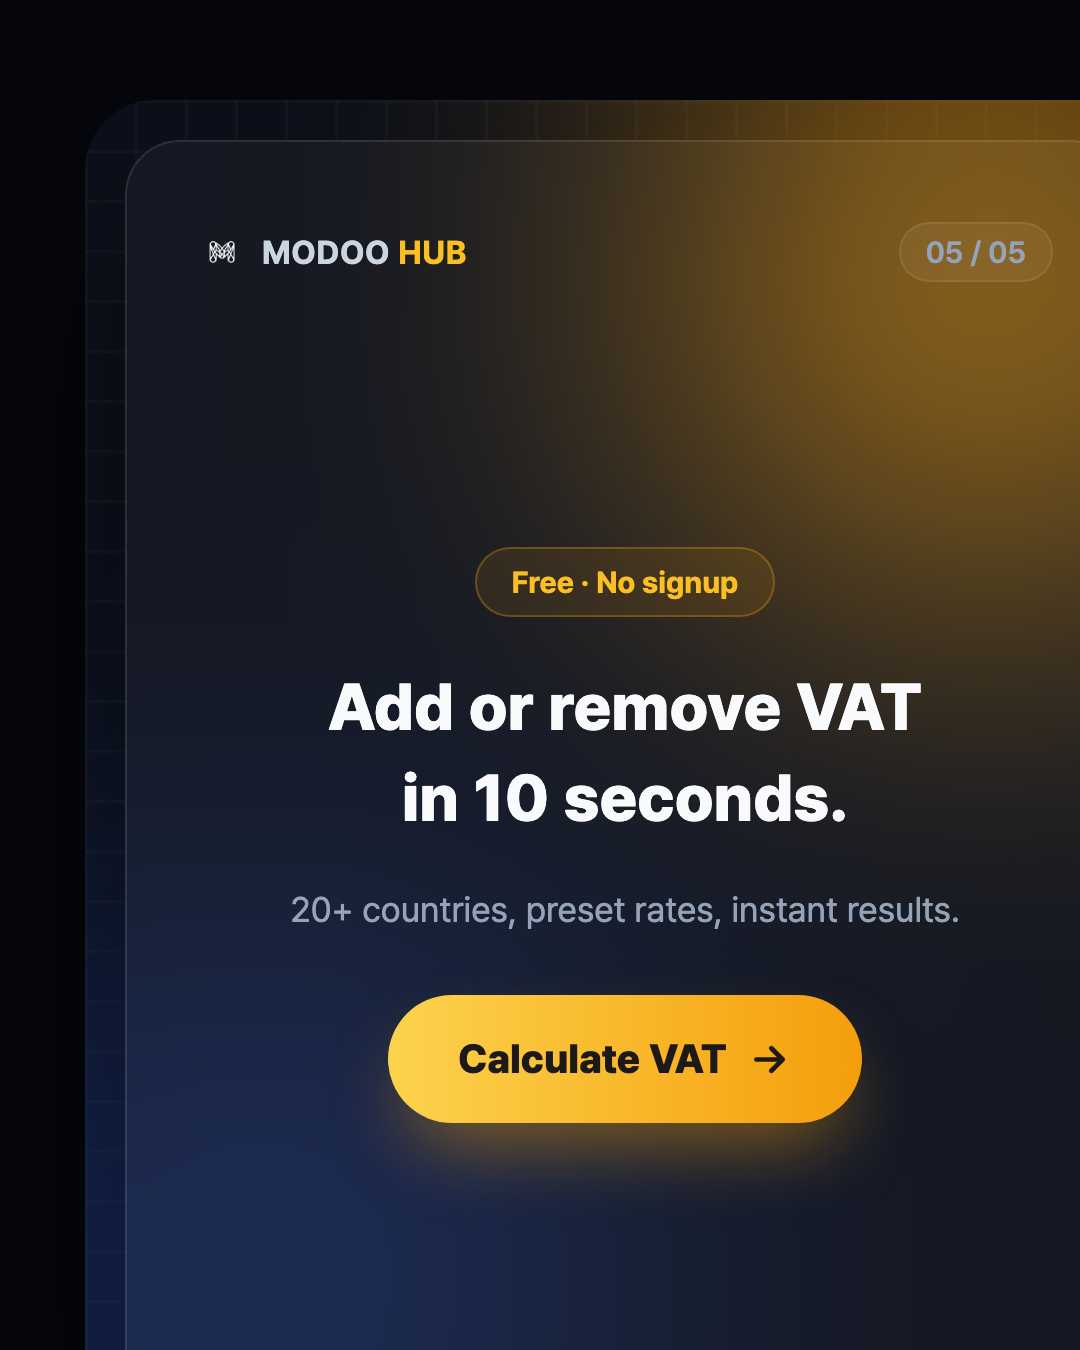
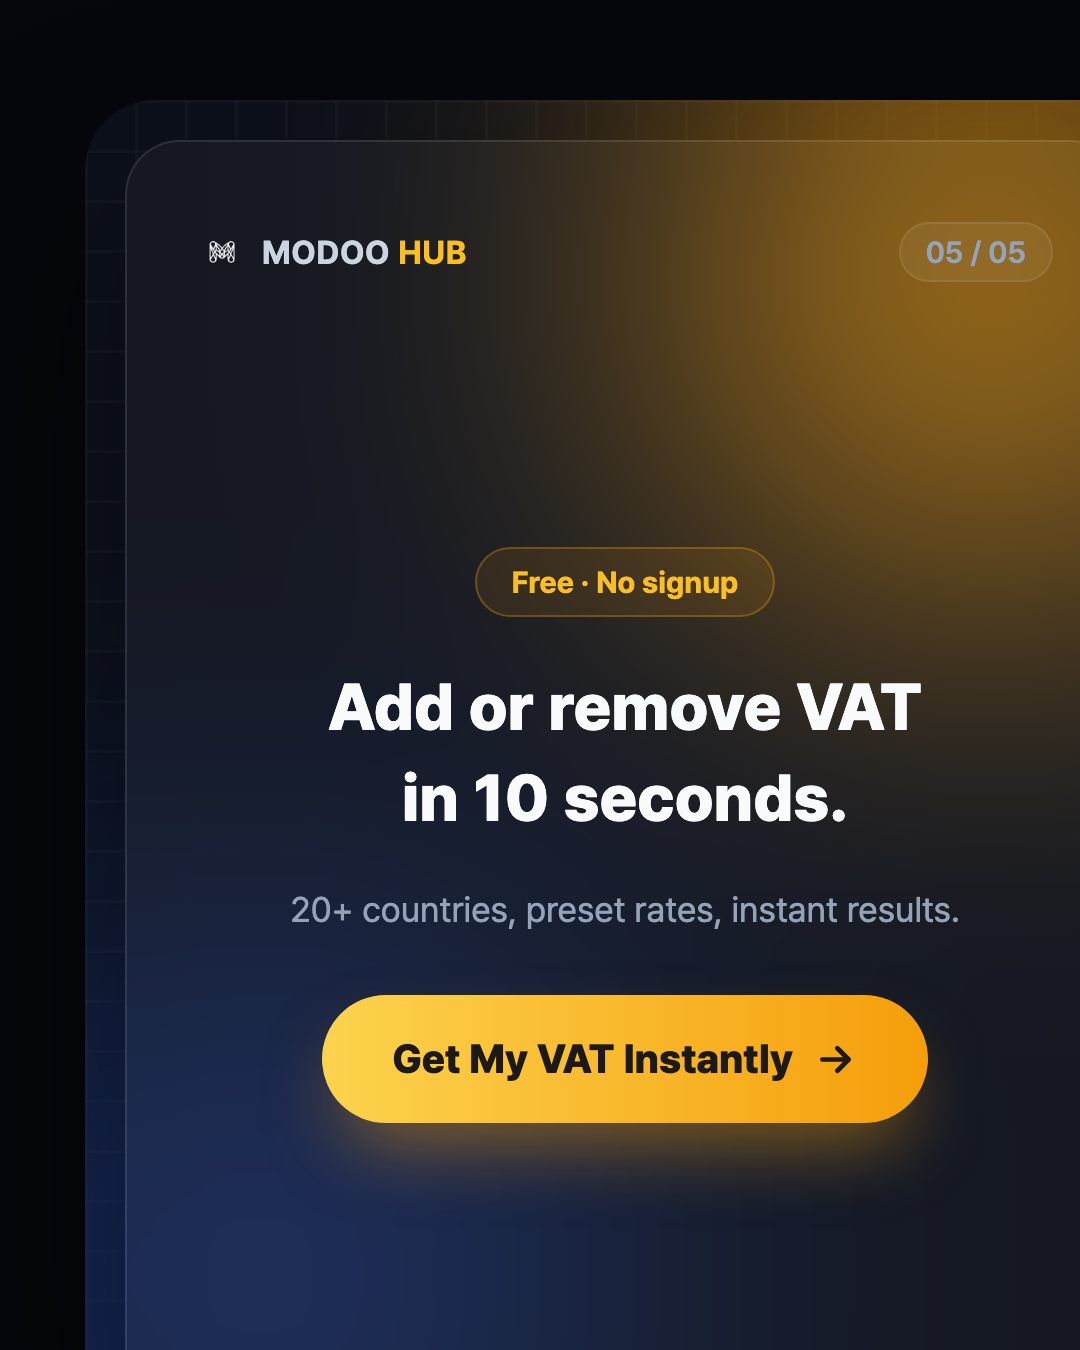
Rewrite batch-2 CTA buttons to result-oriented copy, regenerate slide5
Generic "OOO 계산하기 / Calculate OOO" buttons replaced with
benefit/result-framed copy per Gemini's CTR suggestion (confirmed by
user, applied to batch 2 only — batch 1 stays as-is since it's
already live and changing it would create a voice mismatch with
posted content):

KR: 내 양도세 1초 확인하기 / 내 4대보험료 1초 확인하기 /
    내 육아휴직급여 1초 확인하기 / 내 국민연금 1초 비교하기 /
    내 칼로리 3초 확인하기
Global: See My Real Value Now / Get My VAT Instantly /
    See My Savings Now / Convert My Time Now / Find My Bedtime Now

All 10 slide5 images regenerated and visually confirmed no text
overflow/wrap. Alt-text entries in 08-sns-cards.md updated to match.

Changed region(s): [[0.275, 0.7156, 0.7333, 0.8711], [0.7639, 0.7156, 0.8556, 0.8711]]

diff --git a/promotion/template/kr-calorie.html b/promotion/template/kr-calorie.html
@@ -109,7 +109,7 @@
           <h1 style="font-size:26px; font-weight:800; color:#0f172a; line-height:1.4; margin:0;">내 하루 필요 칼로리,<br/>3초 만에 계산하기</h1>
           <p style="font-size:14px; color:#64748b; margin:0;">나이·체중·활동량만 입력하면 바로 결과 확인</p>
           <div style="margin-top:8px; display:flex; align-items:center; gap:8px; background:linear-gradient(90deg,#fcd34d,#f59e0b); color:#1c1917; font-weight:800; font-size:16px; padding:16px 28px; border-radius:9999px; box-shadow:0 15px 30px -8px rgba(245,158,11,0.35);">
-            칼로리 계산하기
+            내 칼로리 3초 확인하기
             <svg width="18" height="18" viewBox="0 0 24 24" fill="none"><path d="M5 12h14M13 6l6 6-6 6" stroke="#1c1917" stroke-width="2.5" stroke-linecap="round" stroke-linejoin="round"/></svg>
           </div>
         </div>

diff --git a/promotion/template/kr-parental-leave.html b/promotion/template/kr-parental-leave.html
@@ -104,7 +104,7 @@
           <h1 style="font-size:26px; font-weight:800; color:#f1f5f9; line-height:1.4; margin:0;">내 육아휴직급여,<br/>1초 만에 계산하기</h1>
           <p style="font-size:14px; color:#e2e8f0; margin:0;">통상임금과 휴직 기간만 입력하면 끝</p>
           <div style="margin-top:8px; display:flex; align-items:center; gap:8px; background:linear-gradient(90deg,#fb7185,#f59e0b); color:#1c1917; font-weight:800; font-size:16px; padding:16px 28px; border-radius:9999px; box-shadow:0 15px 30px -8px rgba(244,63,94,0.5);">
-            육아휴직급여 계산하기
+            내 육아휴직급여 1초 확인하기
             <svg width="18" height="18" viewBox="0 0 24 24" fill="none"><path d="M5 12h14M13 6l6 6-6 6" stroke="#1c1917" stroke-width="2.5" stroke-linecap="round" stroke-linejoin="round"/></svg>
           </div>
         </div>

diff --git a/promotion/template/kr-national-pension.html b/promotion/template/kr-national-pension.html
@@ -98,7 +98,7 @@
           <h1 style="font-size:26px; font-weight:800; color:#f8fafc; line-height:1.4; margin:0;">내 국민연금 보험료,<br/>1초 만에 비교하기</h1>
           <p style="font-size:14px; color:#94a3b8; margin:0;">소득과 가입 유형만 입력하면 끝</p>
           <div style="margin-top:8px; display:flex; align-items:center; gap:8px; background:linear-gradient(90deg,#60a5fa,#fbbf24); color:#1c1917; font-weight:800; font-size:16px; padding:16px 28px; border-radius:9999px; box-shadow:0 15px 30px -8px rgba(245,158,11,0.5);">
-            국민연금 계산하기
+            내 국민연금 1초 비교하기
             <svg width="18" height="18" viewBox="0 0 24 24" fill="none"><path d="M5 12h14M13 6l6 6-6 6" stroke="#1c1917" stroke-width="2.5" stroke-linecap="round" stroke-linejoin="round"/></svg>
           </div>
         </div>

diff --git a/promotion/template/kr-four-insurance.html b/promotion/template/kr-four-insurance.html
@@ -109,7 +109,7 @@
           <h1 style="font-size:26px; font-weight:800; color:#f8fafc; line-height:1.4; margin:0;">내 4대보험료,<br/>1초 만에 계산하기</h1>
           <p style="font-size:14px; color:#94a3b8; margin:0;">월급만 입력하면 항목별로 바로 확인</p>
           <div style="margin-top:8px; display:flex; align-items:center; gap:8px; background:linear-gradient(90deg,#fcd34d,#f59e0b); color:#1c1917; font-weight:800; font-size:16px; padding:16px 28px; border-radius:9999px; box-shadow:0 15px 30px -8px rgba(245,158,11,0.5);">
-            4대보험 계산하기
+            내 4대보험료 1초 확인하기
             <svg width="18" height="18" viewBox="0 0 24 24" fill="none"><path d="M5 12h14M13 6l6 6-6 6" stroke="#1c1917" stroke-width="2.5" stroke-linecap="round" stroke-linejoin="round"/></svg>
           </div>
         </div>

diff --git a/promotion/template/kr-capital-gains-tax.html b/promotion/template/kr-capital-gains-tax.html
@@ -104,7 +104,7 @@
           <h1 style="font-size:26px; font-weight:800; color:#f8fafc; line-height:1.4; margin:0;">내 양도소득세,<br/>1초 만에 계산하기</h1>
           <p style="font-size:14px; color:#94a3b8; margin:0;">보유기간과 양도차익만 입력하면 끝</p>
           <div style="margin-top:8px; display:flex; align-items:center; gap:8px; background:linear-gradient(90deg,#fcd34d,#f59e0b); color:#1c1917; font-weight:800; font-size:16px; padding:16px 28px; border-radius:9999px; box-shadow:0 15px 30px -8px rgba(245,158,11,0.5);">
-            양도세 계산하기
+            내 양도세 1초 확인하기
             <svg width="18" height="18" viewBox="0 0 24 24" fill="none"><path d="M5 12h14M13 6l6 6-6 6" stroke="#1c1917" stroke-width="2.5" stroke-linecap="round" stroke-linejoin="round"/></svg>
           </div>
         </div>

diff --git a/promotion/template/global-inflation-calculator.html b/promotion/template/global-inflation-calculator.html
@@ -108,7 +108,7 @@
           <h1 style="font-size:26px; font-weight:800; color:#f8fafc; line-height:1.4; margin:0;">See your real purchasing power<br/>in 10 seconds.</h1>
           <p style="font-size:14px; color:#94a3b8; margin:0;">Enter an amount, a rate, and a time period.</p>
           <div style="margin-top:8px; display:flex; align-items:center; gap:8px; background:linear-gradient(90deg,#fcd34d,#f59e0b); color:#1c1917; font-weight:800; font-size:16px; padding:16px 28px; border-radius:9999px; box-shadow:0 15px 30px -8px rgba(245,158,11,0.5);">
-            Calculate Inflation Impact
+            See My Real Value Now
             <svg width="18" height="18" viewBox="0 0 24 24" fill="none"><path d="M5 12h14M13 6l6 6-6 6" stroke="#1c1917" stroke-width="2.5" stroke-linecap="round" stroke-linejoin="round"/></svg>
           </div>
         </div>

diff --git a/promotion/template/global-sleep-calculator.html b/promotion/template/global-sleep-calculator.html
@@ -105,7 +105,7 @@
           <h1 style="font-size:26px; font-weight:800; color:#0f172a; line-height:1.4; margin:0;">Find your ideal bedtime<br/>in 3 seconds.</h1>
           <p style="font-size:14px; color:#64748b; margin:0;">Enter your wake-up time and get instant results.</p>
           <div style="margin-top:8px; display:flex; align-items:center; gap:8px; background:linear-gradient(90deg,#fcd34d,#f59e0b); color:#1c1917; font-weight:800; font-size:16px; padding:16px 28px; border-radius:9999px; box-shadow:0 15px 30px -8px rgba(245,158,11,0.35);">
-            Calculate My Sleep
+            Find My Bedtime Now
             <svg width="18" height="18" viewBox="0 0 24 24" fill="none"><path d="M5 12h14M13 6l6 6-6 6" stroke="#1c1917" stroke-width="2.5" stroke-linecap="round" stroke-linejoin="round"/></svg>
           </div>
         </div>

diff --git a/promotion/template/global-loan-payoff-calculator.html b/promotion/template/global-loan-payoff-calculator.html
@@ -93,7 +93,7 @@
           <h1 style="font-size:26px; font-weight:800; color:#f1f5f9; line-height:1.4; margin:0;">See your own savings<br/>in 10 seconds.</h1>
           <p style="font-size:14px; color:#e2e8f0; margin:0;">Balance, rate, and payment — that's all it takes.</p>
           <div style="margin-top:8px; display:flex; align-items:center; gap:8px; background:linear-gradient(90deg,#fb7185,#f59e0b); color:#1c1917; font-weight:800; font-size:16px; padding:16px 28px; border-radius:9999px; box-shadow:0 15px 30px -8px rgba(244,63,94,0.5);">
-            Calculate My Payoff
+            See My Savings Now
             <svg width="18" height="18" viewBox="0 0 24 24" fill="none"><path d="M5 12h14M13 6l6 6-6 6" stroke="#1c1917" stroke-width="2.5" stroke-linecap="round" stroke-linejoin="round"/></svg>
           </div>
         </div>

diff --git a/promotion/template/global-timezone-converter.html b/promotion/template/global-timezone-converter.html
@@ -102,7 +102,7 @@
           <h1 style="font-size:26px; font-weight:800; color:#f8fafc; line-height:1.4; margin:0;">Convert any time zone<br/>in seconds.</h1>
           <p style="font-size:14px; color:#94a3b8; margin:0;">DST handled automatically, 30+ cities at once.</p>
           <div style="margin-top:8px; display:flex; align-items:center; gap:8px; background:linear-gradient(90deg,#60a5fa,#fbbf24); color:#1c1917; font-weight:800; font-size:16px; padding:16px 28px; border-radius:9999px; box-shadow:0 15px 30px -8px rgba(245,158,11,0.5);">
-            Convert Time Zones
+            Convert My Time Now
             <svg width="18" height="18" viewBox="0 0 24 24" fill="none"><path d="M5 12h14M13 6l6 6-6 6" stroke="#1c1917" stroke-width="2.5" stroke-linecap="round" stroke-linejoin="round"/></svg>
           </div>
         </div>

diff --git a/promotion/template/global-vat-calculator.html b/promotion/template/global-vat-calculator.html
@@ -106,7 +106,7 @@
           <h1 style="font-size:26px; font-weight:800; color:#f8fafc; line-height:1.4; margin:0;">Add or remove VAT<br/>in 10 seconds.</h1>
           <p style="font-size:14px; color:#94a3b8; margin:0;">20+ countries, preset rates, instant results.</p>
           <div style="margin-top:8px; display:flex; align-items:center; gap:8px; background:linear-gradient(90deg,#fcd34d,#f59e0b); color:#1c1917; font-weight:800; font-size:16px; padding:16px 28px; border-radius:9999px; box-shadow:0 15px 30px -8px rgba(245,158,11,0.5);">
-            Calculate VAT
+            Get My VAT Instantly
             <svg width="18" height="18" viewBox="0 0 24 24" fill="none"><path d="M5 12h14M13 6l6 6-6 6" stroke="#1c1917" stroke-width="2.5" stroke-linecap="round" stroke-linejoin="round"/></svg>
           </div>
         </div>

diff --git a/promotion/08-sns-cards.md b/promotion/08-sns-cards.md
@@ -112,7 +112,7 @@ modoohub.com/capital-gains-tax.html
 2. 체크리스트: 나도 해당된다, 자가진단 체크리스트 — 1년 안에 팔 계획, 조정대상지역 다주택자, 1세대1주택 비과세 요건 모름.
 3. 경고 카드: 다주택자는 세금이 더블로. 조정대상지역 2주택 +20%p, 3주택 이상 +30%p 중과세율이 2026년 5월 10일부터 재적용.
 4. 표: 과세표준 구간별 양도세율 — 1,400만원 이하 6%, ~8,800만원 24%, 5억~10억원 42%, 10억원 초과 45%.
-5. 행동 유도 카드: 내 양도소득세, 1초 만에 계산하기. 가입 불필요, 30초 소요.
+5. 행동 유도 카드: 내 양도소득세, 1초 만에 계산하기. 가입 불필요, 30초 소요. 버튼: 내 양도세 1초 확인하기.
 
 **상태**: [ ] 게시 대기.
 
@@ -149,7 +149,7 @@ modoohub.com/four-insurance.html
 2. 명세서 카드: 월급 300만원 4대보험 명세서 — 국민연금 142,500원, 건강보험 107,850원, 장기요양보험 14,171원, 고용보험 27,000원, 합계 291,522원.
 3. 표: 2026년 보험료율 변화 — 국민연금 4.75%, 건강보험 3.595%, 장기요양보험 건보료의 13.14%, 고용보험 0.9%.
 4. 체크리스트: 사업주는 더 많이 부담합니다 — 산재보험(업종별 평균 1.47%), 고용안정·직업능력개발사업분(0.25~0.65%p), 월 300만원 기준 사업주 추가 부담 34만~36만원.
-5. 행동 유도 카드: 내 4대보험료, 1초 만에 계산하기. 가입 불필요, 30초 소요.
+5. 행동 유도 카드: 내 4대보험료, 1초 만에 계산하기. 가입 불필요, 30초 소요. 버튼: 내 4대보험료 1초 확인하기.
 
 **상태**: [ ] 게시 대기.
 
@@ -186,7 +186,7 @@ modoohub.com/parental-leave.html
 2. 경고 카드: 이런 경우엔 급여가 끊깁니다. 휴직 중 주 15시간 이상 취업 확인되면 해당 기간 급여 전액 반환.
 3. 체크리스트: 받기 전에 꼭 확인할 3가지 — 고용보험 가입 180일 미만, 자녀 나이 초과, 6+6 특례 신청 시기 놓침.
 4. 표: 구간별 지급률(2025년 개편) — 1~3개월 100%·250만원, 4~6개월 100%·200만원, 7~12개월 80%·160만원, 하한액 70만원.
-5. 행동 유도 카드: 내 육아휴직급여, 1초 만에 계산하기. 가입 불필요, 30초 소요.
+5. 행동 유도 카드: 내 육아휴직급여, 1초 만에 계산하기. 가입 불필요, 30초 소요. 버튼: 내 육아휴직급여 1초 확인하기.
 
 **상태**: [ ] 게시 대기.
 
@@ -223,7 +223,7 @@ modoohub.com/national-pension-calculator.html
 2. 좌우 비교: A. 직장가입자 — 4.75% 본인 부담, 회사가 나머지 분담. B. 지역가입자 — 9.5% 전액 본인, 사업주가 없어 혼자 다 부담.
 3. 텍스트 카드: 월 소득 300만원 기준 142,500원 — 가입 유형만 바꿔도 월 부담액이 이만큼 차이납니다. 직장가입자 142,500원, 지역가입자 285,000원.
 4. 체크리스트: 2026년 기준 소득 상·하한 — 기준소득월액 상한 659만원, 하한 41만원.
-5. 행동 유도 카드: 내 국민연금 보험료, 1초 만에 비교하기. 가입 불필요, 30초 소요.
+5. 행동 유도 카드: 내 국민연금 보험료, 1초 만에 비교하기. 가입 불필요, 30초 소요. 버튼: 내 국민연금 1초 비교하기.
 
 **상태**: [ ] 게시 대기.
 
@@ -259,7 +259,7 @@ modoohub.com/calorie-calculator.html
 2. 결과 시뮬레이션: 기초대사량(BMR) 1,649kcal, TDEE(총 소비량) 2,556kcal. 30세 남성·175cm·70kg·보통 활동 기준 예시.
 3. 표: 활동 수준별 계수표 — 좌식 생활 1.2, 가벼운 활동 1.375, 보통 활동 1.55, 활발한 활동 1.725.
 4. 가이드: 목표별 섭취 칼로리 가이드 — 체중 감량 TDEE-500kcal, 체중 유지 TDEE 그대로, 체중 증량 TDEE+500kcal.
-5. 행동 유도 카드: 내 하루 필요 칼로리, 3초 만에 계산하기. 가입 불필요, 3초 소요.
+5. 행동 유도 카드: 내 하루 필요 칼로리, 3초 만에 계산하기. 가입 불필요, 3초 소요. 버튼: 내 칼로리 3초 확인하기.
 
 **상태**: [ ] 게시 대기.
 
@@ -308,7 +308,7 @@ Calculate your real purchasing power free: modoohub.com/inflation-calculator.htm
 2. Checklist: Habits that quietly drain your savings — cash in a 0% checking account, assuming saving protects value on its own, ignoring real inflation-adjusted return.
 3. Warning card: Inflation isn't always a slow 2–3%. US inflation hit 9% in 2022, Argentina 211% in 2023, Turkey 80% in 2022.
 4. Table: Average CPI by country — Japan 2.0%, EU 2.3%, UK 2.8%, US 3.0%, India 5.5%.
-5. CTA card: See your real purchasing power in 10 seconds. Calculate Inflation Impact.
+5. CTA card: See your real purchasing power in 10 seconds. Button: See My Real Value Now.
 
 **상태**: [ ] 게시 대기.
 
@@ -353,7 +353,7 @@ Add or remove VAT for 20+ countries free: modoohub.com/vat-calculator-global.htm
 2. Statement card: €500 goods, 19% German VAT — net price €500.00, VAT (19%) +€95.00, gross price €595.00.
 3. Table: Standard VAT/GST rate by region — Canada (federal GST) 5%, Australia (GST) 10%, UK (standard) 20%, Hungary (EU max) 27%.
 4. Checklist: Mistakes that cost cross-border sellers — quoting VAT-inclusive as VAT-exclusive, not reclaiming input VAT, missing tourist refund minimums.
-5. CTA card: Add or remove VAT in 10 seconds. Calculate VAT.
+5. CTA card: Add or remove VAT in 10 seconds. Button: Get My VAT Instantly.
 
 **상태**: [ ] 게시 대기.
 
@@ -396,7 +396,7 @@ See your own numbers free: modoohub.com/loan-payoff-calculator.html
 2. Warning card: Minimum payments maximize your interest. $300,000 loan at 6.5% over 30 years = $382,633 in interest.
 3. Text card: $300,000 · 6.5% · 30-year loan. $103,449 saved. Payoff time saved 6.9 years, new payoff term 23.1 years.
 4. Checklist: Why extra payments work so well — extra payments hit principal directly, lower balance means lower interest every month after, monthly beats an annual lump sum.
-5. CTA card: See your own savings in 10 seconds. Calculate My Payoff.
+5. CTA card: See your own savings in 10 seconds. Button: See My Savings Now.
 
 **상태**: [ ] 게시 대기.
 
@@ -439,7 +439,7 @@ Convert any time zone free, DST handled automatically: modoohub.com/timezone-con
 2. VS comparison: A. Seoul (KST) — UTC+9 fixed, no daylight saving. B. New York (EDT) — UTC-4, shifts to EST in winter.
 3. Text card: Seoul 9:00 AM meeting = 8:00 PM (previous day) in New York.
 4. Checklist: Tips for scheduling global meetings — agree on a time in UTC first, double-check DST transition weeks, watch for non-standard offsets (India UTC+5:30, Nepal UTC+5:45).
-5. CTA card: Convert any time zone in seconds. Convert Time Zones.
+5. CTA card: Convert any time zone in seconds. Button: Convert My Time Now.
 
 **상태**: [ ] 게시 대기.
 
@@ -482,6 +482,6 @@ Find your ideal bedtime free: modoohub.com/sleep-calculator.html
 2. Result simulation: Waking up at 7:00 AM — here's when to sleep. 9:45 PM (6 cycles, 9h15m), 11:15 PM (5 cycles, 7h45m), 12:45 AM (4 cycles, 6h15m).
 3. Table: Recommended sleep by age group — school age (6–12) 9–12 hrs, teens 8–10 hrs, adults (18–64) 7–9 hrs.
 4. Guide: Small habits, better sleep — blue light suppresses melatonin and delays sleep onset, power naps 10–20 min is the sweet spot, weekend catch-up only partially repays sleep debt.
-5. CTA card: Find your ideal bedtime in 3 seconds. Calculate My Sleep.
+5. CTA card: Find your ideal bedtime in 3 seconds. Button: Find My Bedtime Now.
 
 **상태**: [ ] 게시 대기.
